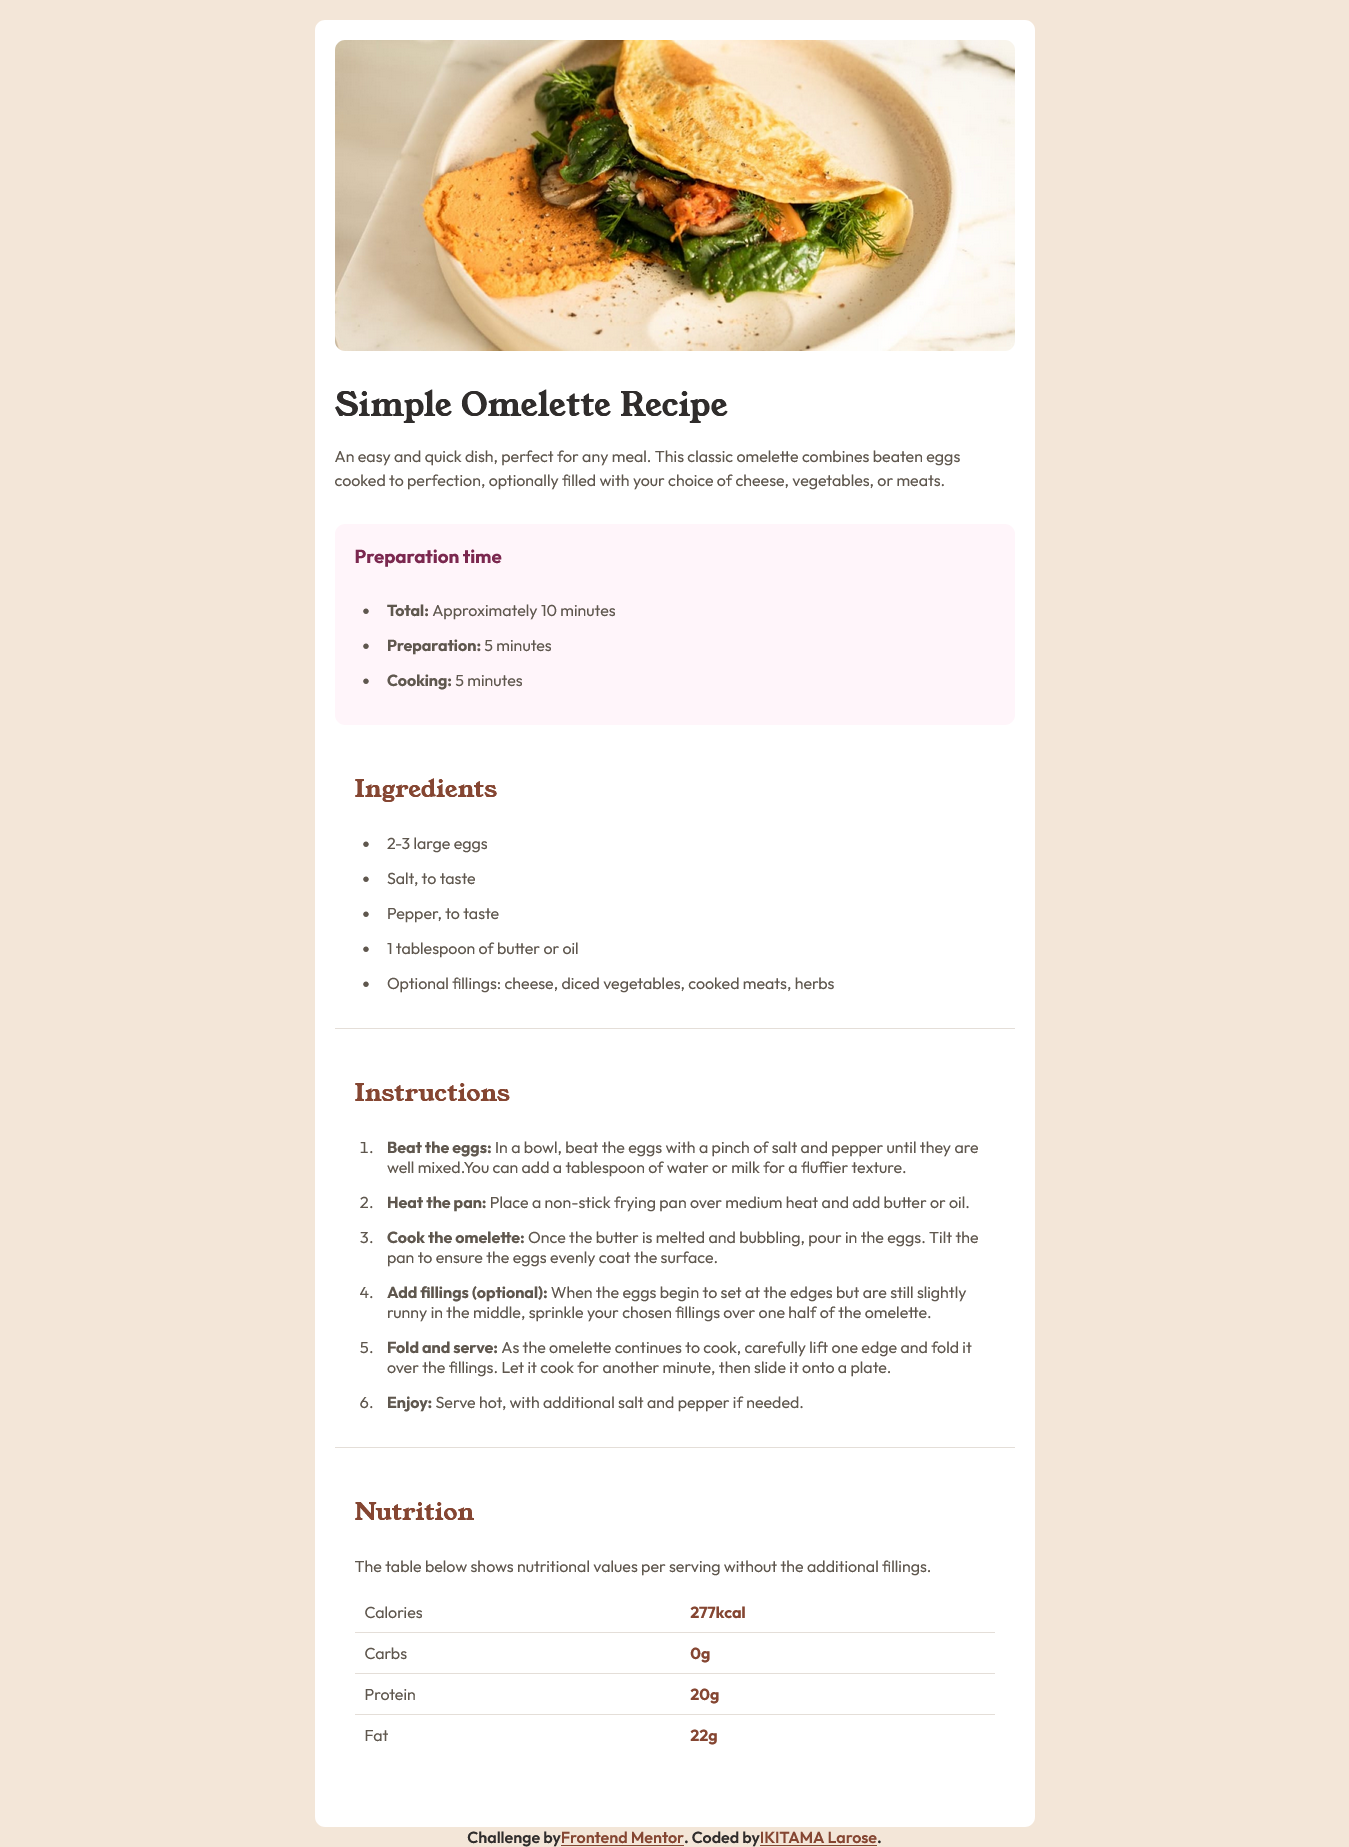
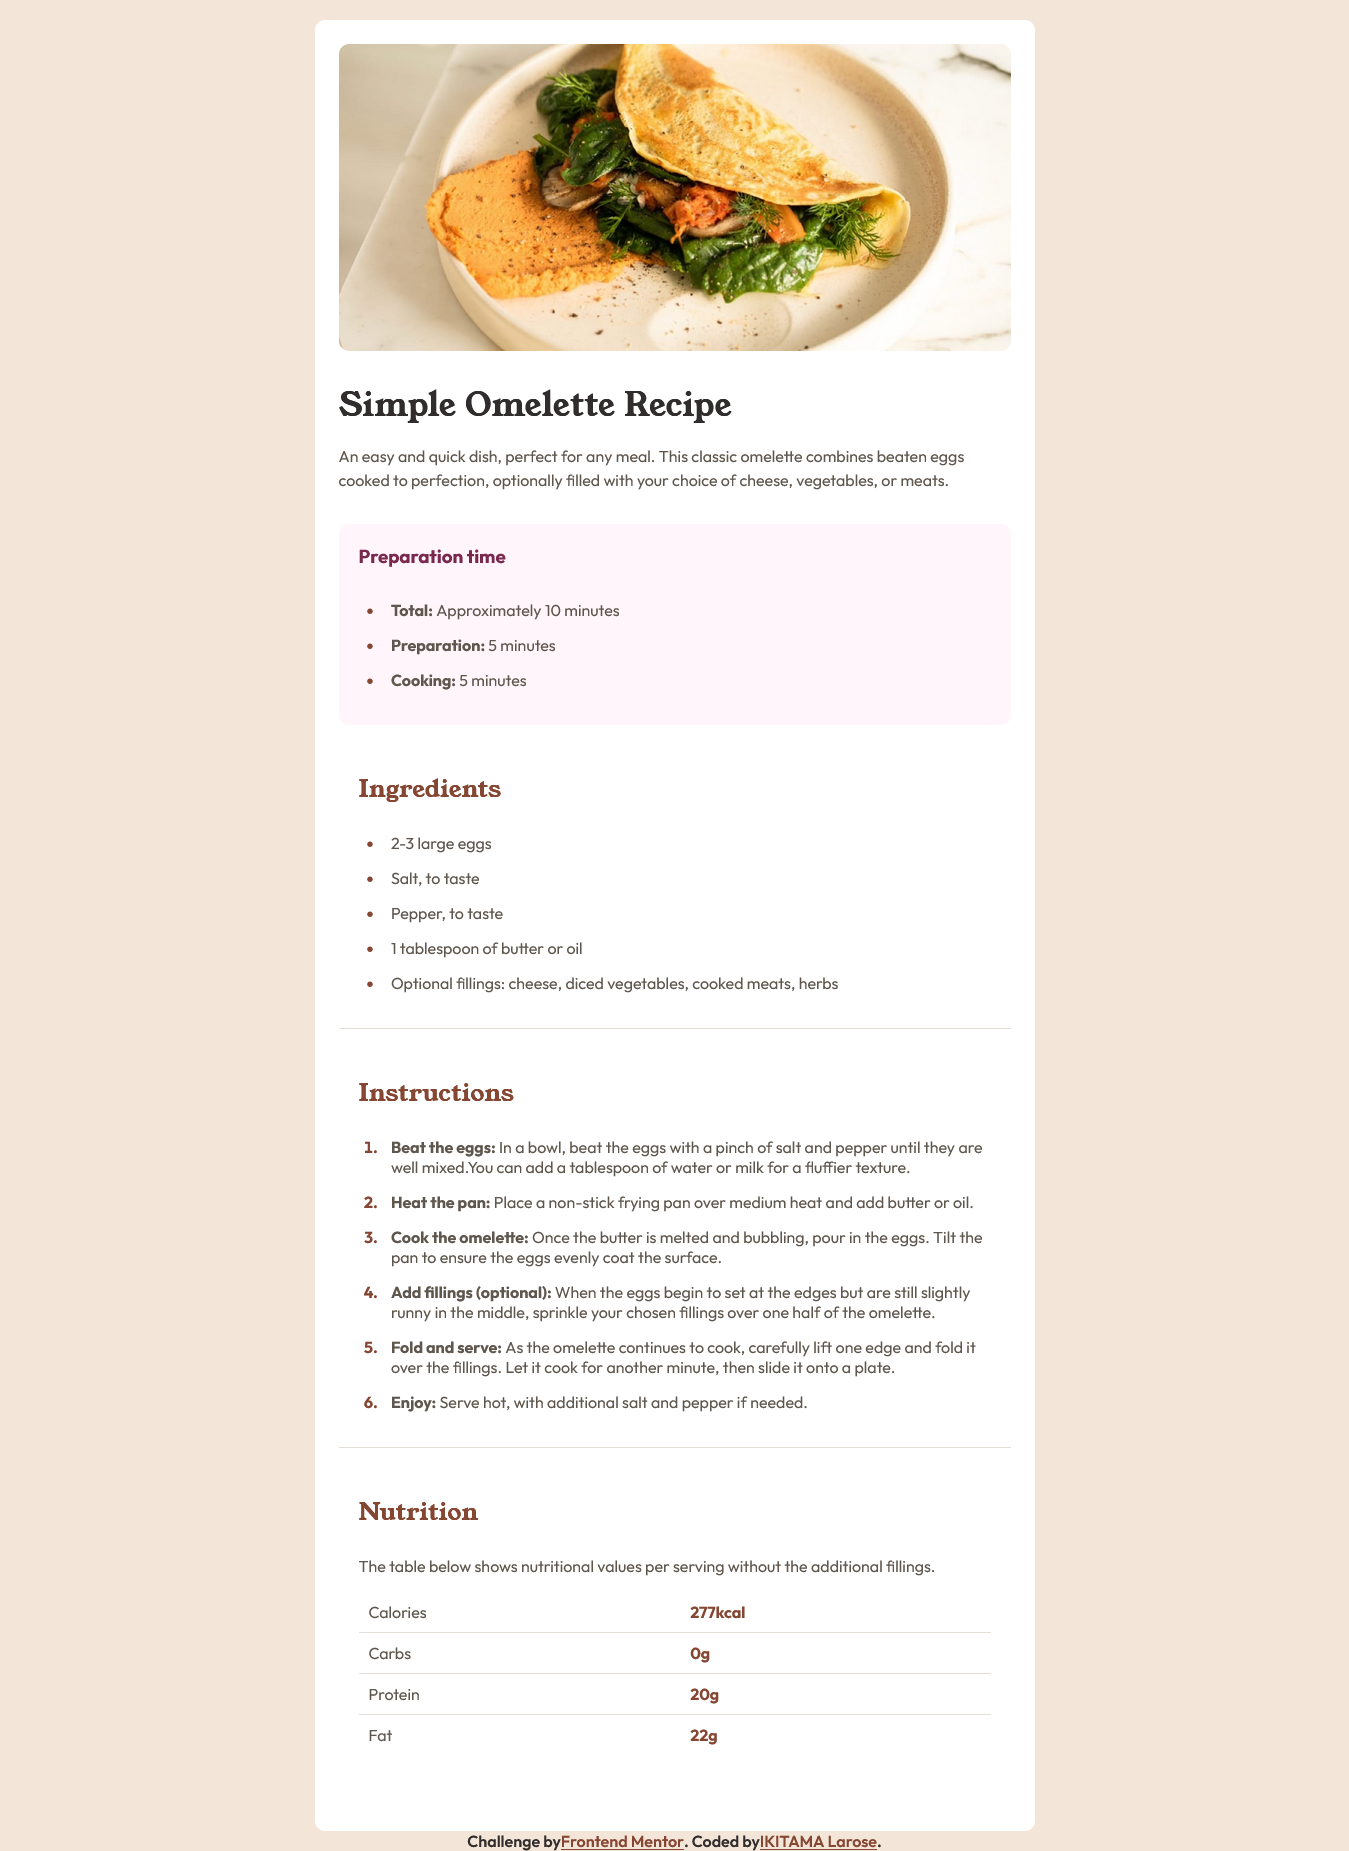
updated README, updated solution image, color marker list

diff --git a/styles/main.css b/styles/main.css
@@ -50,13 +50,14 @@ body {
     display: flex;
     flex-direction: column;
     background-color: var(--white);
-    padding: 1.25rem;
+    padding: 1.5rem;
     width: 45rem;
     margin: auto;
     margin-top: 1.25rem;
 }
 
-.card__image,.card{
+.card__image,
+.card {
     border-radius: 0.625rem;
 }
 
@@ -72,7 +73,7 @@ body {
     margin-bottom: 2rem;
 }
 
-.card-padding{
+.card-padding {
     margin-top: 2rem;
 }
 
@@ -113,6 +114,11 @@ body {
 }
 
 
+.card__list li::marker {
+    color: var(--nutmeg);
+    font-weight: var(--title-font-weight);
+}
+
 .card__item {
     margin-bottom: 0.938rem;
     padding-left: 0.625rem;
@@ -143,7 +149,7 @@ body {
 }
 
 /* attribution */
-.attribution{
+.attribution {
     display: flex;
     flex-direction: row;
     align-items: center;
@@ -151,10 +157,10 @@ body {
 
     color: var(--dark-charcoal);
     font-weight: var(--subtitle-font-weight);
-    
+
 }
 
-.attribution a{
+.attribution a {
     color: var(--nutmeg);
 }
 
@@ -167,9 +173,11 @@ body {
         margin-top: 0;
     }
 
-    .card__image,.card{
+    .card__image,
+    .card {
         border-radius: 0;
     }
+
     .card-padding {
         padding: 1.25rem;
         margin-top: 1rem;
@@ -182,8 +190,8 @@ body {
     .card__table {
         text-align: center;
     }
-    
-    .attribution{
+
+    .attribution {
         display: none;
     }
 }

diff --git a/README.md b/README.md
@@ -11,6 +11,7 @@ This is a solution to the [Recipe page challenge on Frontend Mentor](https://www
     - [Links](#links)
   - [My process](#my-process)
     - [Built with](#built-with)
+    - [What I learned](#what-i-learned)
   - [Author](#author)
 
 ## Overview
@@ -32,6 +33,17 @@ This is a solution to the [Recipe page challenge on Frontend Mentor](https://www
 - CSS custom properties
 - Flexbox
 - CSS Grid
+  
+### What I learned
+
+How to design the marker generated by the lists.
+
+```css
+.card__list li::marker {
+    color: var(--nutmeg);
+    font-weight: var(--title-font-weight);
+}
+```
 
 
 ## Author
